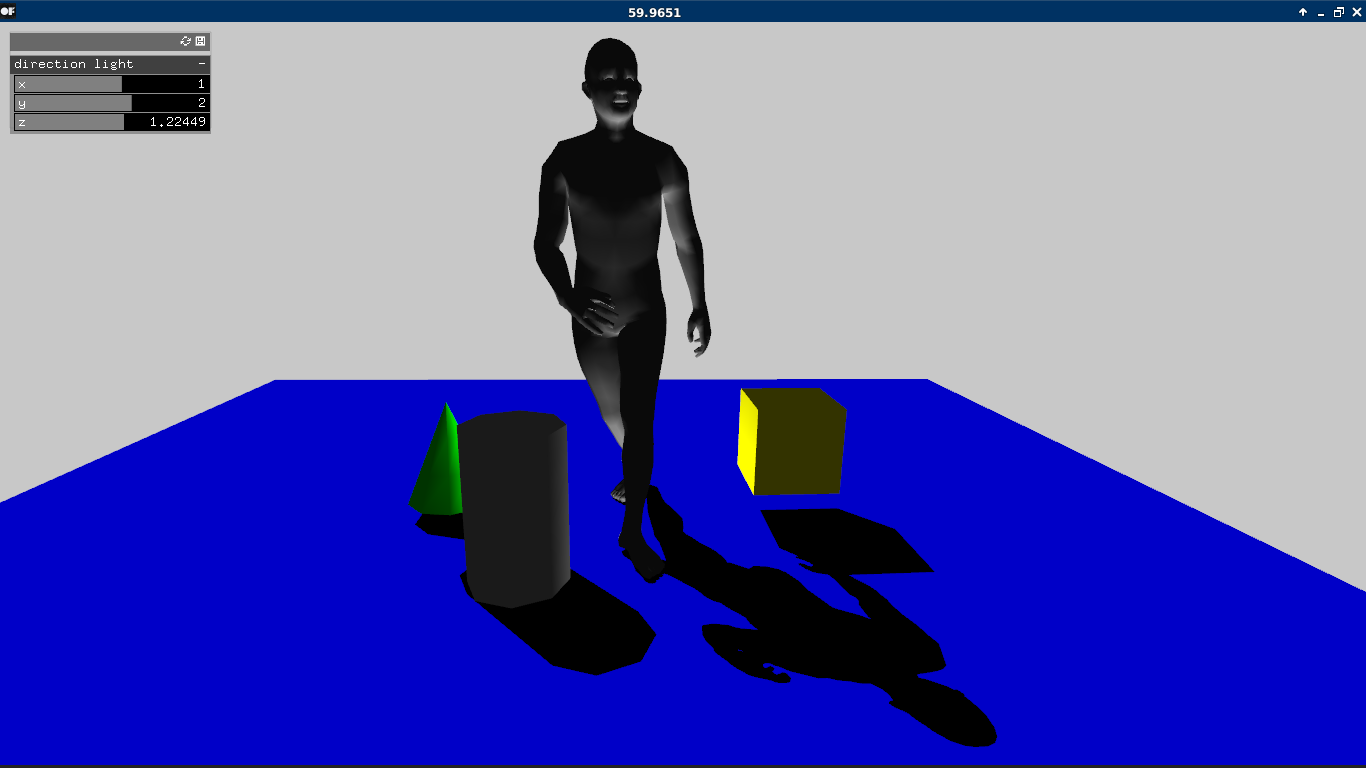
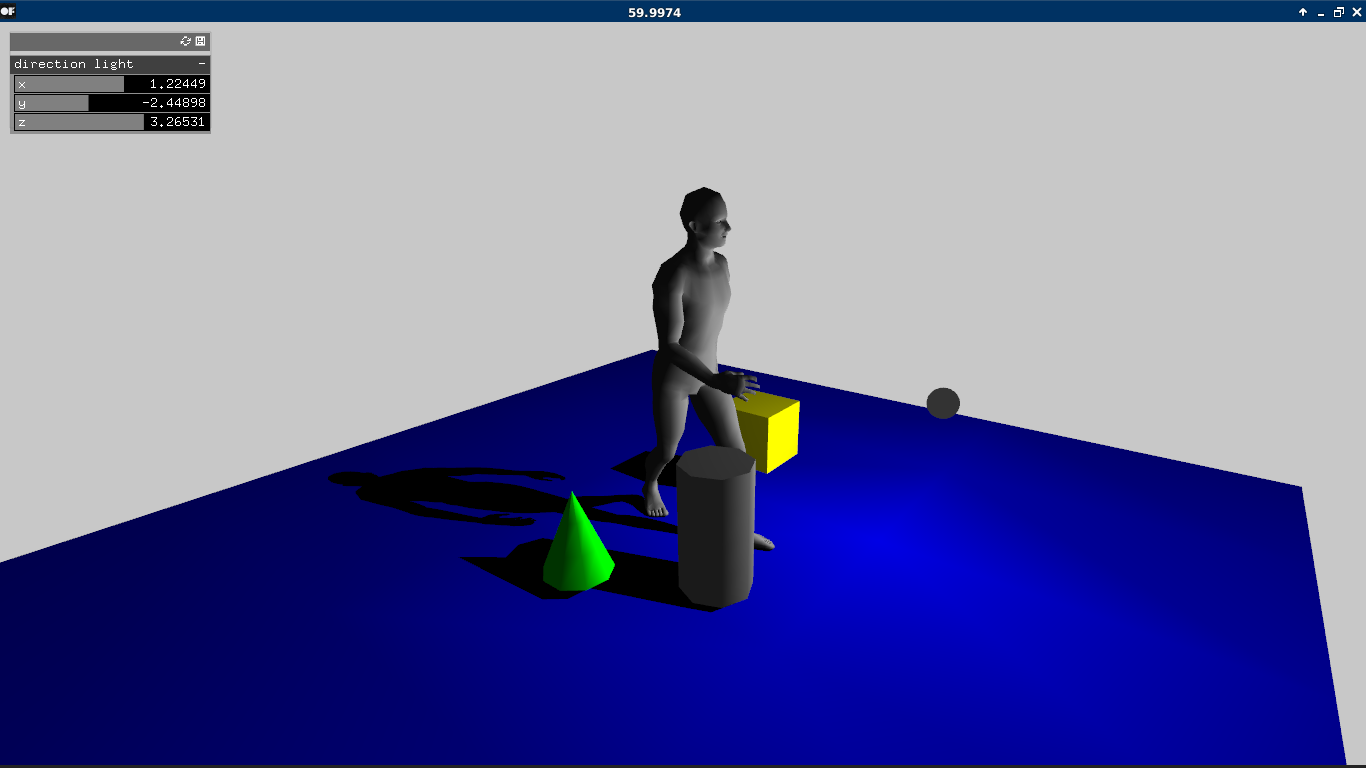
Update

diff --git a/example/src/ofApp.cpp b/example/src/ofApp.cpp
@@ -9,7 +9,7 @@ void ofApp::setup()
 
 	shadow.setup();
 	shadow.setColors(ofColor(0,0,0));
-	shadow.setAlpha(255);
+	shadow.setAlpha(1.f);
 
 	model.loadModel("model.dae",true);
 	gui.setup();
@@ -43,7 +43,7 @@ void ofApp::render(bool color)
 	if(color) ofSetColor(ofColor::green);
 	ofDrawCone(-200, -80, -30, 50, 120);
 	if(color) ofSetColor(ofColor::grey);
-	ofDrawCylinder(-100, -70, 130, 50, 180);
+	ofDrawCylinder(-100, -100, 130, 50, 180);
 	ofPopMatrix();
 }
 
@@ -54,25 +54,31 @@ void ofApp::draw()
 	
 	ofEnableLighting();
 
+	//light
 	ofSetColor(pointLight.getDiffuseColor());
 	ofDrawSphere(pointLight.getPosition(), 20.f);
 
+	//scene
 	pointLight.enable();
 	material.begin();
 	render(true);
-	material.end();
-	pointLight.disable();
-	ofDisableLighting();
 
-	shadow.begin(cam);
-		render(false);
-	shadow.end();
-
+	//plane
 	ofPushMatrix();
 	ofRotateX(90);	
 	ofSetColor(0,0,200);
 	ofDrawPlane(0,0,-1,1500,1500);
 	ofPopMatrix();
+
+	material.end();
+	pointLight.disable();
+	ofDisableLighting();
+
+	//shadow
+	shadow.begin(cam);
+		render(false);
+	shadow.end();
+
 	
 	cam.end();
 	ofDisableDepthTest();
